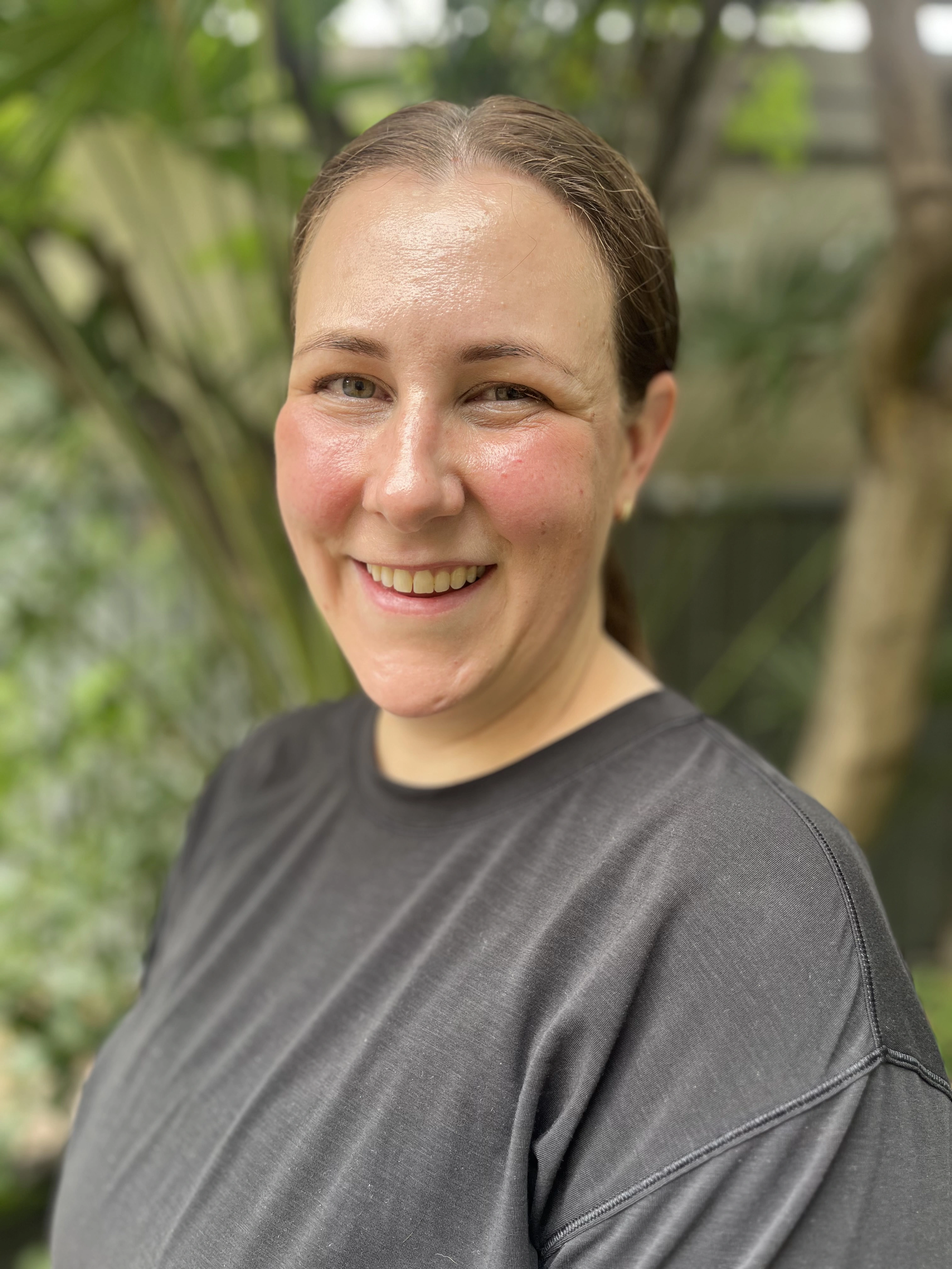
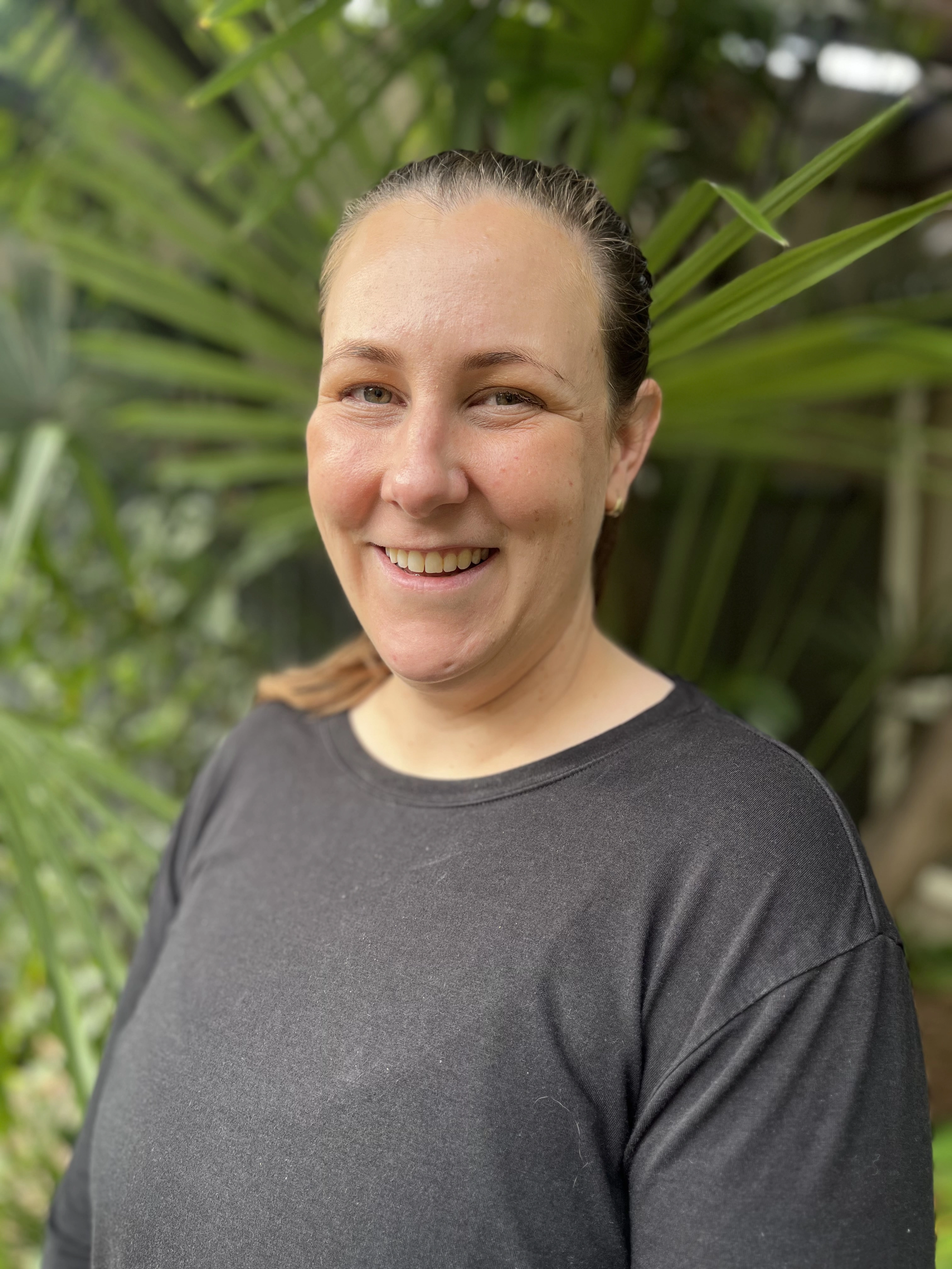
Update site: add Reagan/Tayla to support staff, add Elly profile, move Jessica to farewell, update announcement for Amanda & Elly, add social media links

diff --git a/about-us/index.html b/about-us/index.html
@@ -157,6 +157,14 @@
             <p>Jacqui</p>
         </div>
         <div class="receptionist">
+            <img src="../Assets/headshots/Reagan.webp" alt="Reagan - Support staff" loading="lazy">
+            <p>Reagan</p>
+        </div>
+        <div class="receptionist">
+            <img src="../Assets/headshots/Tayla.webp" alt="Tayla - Support staff" loading="lazy">
+            <p>Tayla</p>
+        </div>
+        <div class="receptionist">
             <img src="../Assets/headshots/Kaeleigh.webp" alt="Kaeleigh - Reception staff" loading="lazy">
             <p>Kaeleigh</p>
         </div>
@@ -170,6 +178,14 @@
                 <p>Tel: <a href="tel:0394341874">03 9434 1874</a></p>
                 <p>Fax: 03 9957 8148</p>
                 <p>E-mail: <a href="mailto:info@embodyhealthcare.com.au">info@embodyhealthcare.com.au</a></p>
+                <div class="socials">
+                    <a href="https://www.instagram.com/embodyhealthcareosteopathy/" target="_blank" rel="noopener" aria-label="Instagram">
+                        <svg xmlns="http://www.w3.org/2000/svg" width="24" height="24" viewBox="0 0 24 24" fill="currentColor"><path d="M12 2.163c3.204 0 3.584.012 4.85.07 3.252.148 4.771 1.691 4.919 4.919.058 1.265.069 1.645.069 4.849 0 3.205-.012 3.584-.069 4.849-.149 3.225-1.664 4.771-4.919 4.919-1.266.058-1.644.07-4.85.07-3.204 0-3.584-.012-4.849-.07-3.26-.149-4.771-1.699-4.919-4.92-.058-1.265-.07-1.644-.07-4.849 0-3.204.013-3.583.07-4.849.149-3.227 1.664-4.771 4.919-4.919 1.266-.057 1.645-.069 4.849-.069zM12 0C8.741 0 8.333.014 7.053.072 2.695.272.273 2.69.073 7.052.014 8.333 0 8.741 0 12c0 3.259.014 3.668.072 4.948.2 4.358 2.618 6.78 6.98 6.98C8.333 23.986 8.741 24 12 24c3.259 0 3.668-.014 4.948-.072 4.354-.2 6.782-2.618 6.979-6.98.059-1.28.073-1.689.073-4.948 0-3.259-.014-3.667-.072-4.947-.196-4.354-2.617-6.78-6.979-6.98C15.668.014 15.259 0 12 0zm0 5.838a6.162 6.162 0 100 12.324 6.162 6.162 0 000-12.324zM12 16a4 4 0 110-8 4 4 0 010 8zm6.406-11.845a1.44 1.44 0 100 2.881 1.44 1.44 0 000-2.881z"/></svg>
+                    </a>
+                    <a href="https://www.facebook.com/profile.php?id=61587610506511" target="_blank" rel="noopener" aria-label="Facebook">
+                        <svg xmlns="http://www.w3.org/2000/svg" width="24" height="24" viewBox="0 0 24 24" fill="currentColor"><path d="M24 12.073c0-6.627-5.373-12-12-12s-12 5.373-12 12c0 5.99 4.388 10.954 10.125 11.854v-8.385H7.078v-3.47h3.047V9.43c0-3.007 1.792-4.669 4.533-4.669 1.312 0 2.686.235 2.686.235v2.953H15.83c-1.491 0-1.956.925-1.956 1.874v2.25h3.328l-.532 3.47h-2.796v8.385C19.612 23.027 24 18.062 24 12.073z"/></svg>
+                    </a>
+                </div>
             </div>
             <div class="openhrs">
                 <h3>Opening Hours</h3>
@@ -233,18 +249,6 @@
             },
             {
                 "@type": "Physician",
-                "@id": "https://www.embodyhealthcare.com.au/about-us/#jessica",
-                "name": "Jessica Di Natale",
-                "image": "https://www.embodyhealthcare.com.au/Assets/headshots/Jess.webp",
-                "medicalSpecialty": "Osteopathy",
-                "worksFor": {
-                    "@type": ["LocalBusiness", "MedicalBusiness"],
-                    "name": "Embody Healthcare Osteopathy",
-                    "url": "https://www.embodyhealthcare.com.au"
-                }
-            },
-            {
-                "@type": "Physician",
                 "@id": "https://www.embodyhealthcare.com.au/about-us/#kathryn",
                 "name": "Kathryn Williams",
                 "image": "https://www.embodyhealthcare.com.au/Assets/headshots/Kath.webp",
@@ -272,6 +276,18 @@
                 "@id": "https://www.embodyhealthcare.com.au/about-us/#nathan",
                 "name": "Nathan Switkowski",
                 "image": "https://www.embodyhealthcare.com.au/Assets/headshots/Nathan.webp",
+                "medicalSpecialty": "Osteopathy",
+                "worksFor": {
+                    "@type": ["LocalBusiness", "MedicalBusiness"],
+                    "name": "Embody Healthcare Osteopathy",
+                    "url": "https://www.embodyhealthcare.com.au"
+                }
+            },
+            {
+                "@type": "Physician",
+                "@id": "https://www.embodyhealthcare.com.au/about-us/#elly",
+                "name": "Elly Slatterie-Smith",
+                "image": "https://www.embodyhealthcare.com.au/Assets/headshots/Elly.webp",
                 "medicalSpecialty": "Osteopathy",
                 "worksFor": {
                     "@type": ["LocalBusiness", "MedicalBusiness"],

diff --git a/index.html b/index.html
@@ -56,7 +56,7 @@
             <a class="CTA" href="/online-bookings/">Book Now</a>
         </nav>
         <div class="announcement">
-            <a href="/about-us/#nathan"><p>Now welcoming osteopath <u>Nathan Switkowski</u> to our team! Available Mondays, Thursdays & Saturdays (monthly). Book online or call 9434 1874.</p></a>
+            <p>Welcome to Osteopaths Amanda & Elly: now available for appointments!</p>
         </div>
 
         <div class="heroImg"></div>
@@ -137,6 +137,14 @@
                     <p>Tel: <a href="tel:0394341874">03 9434 1874</a></p>
                     <p>Fax: 03 9957 8148</p>
                     <p>E-mail: <a href="mailto:info@embodyhealthcare.com.au">info@embodyhealthcare.com.au</a></p>
+                    <div class="socials">
+                        <a href="https://www.instagram.com/embodyhealthcareosteopathy/" target="_blank" rel="noopener" aria-label="Instagram">
+                            <svg xmlns="http://www.w3.org/2000/svg" width="24" height="24" viewBox="0 0 24 24" fill="currentColor"><path d="M12 2.163c3.204 0 3.584.012 4.85.07 3.252.148 4.771 1.691 4.919 4.919.058 1.265.069 1.645.069 4.849 0 3.205-.012 3.584-.069 4.849-.149 3.225-1.664 4.771-4.919 4.919-1.266.058-1.644.07-4.85.07-3.204 0-3.584-.012-4.849-.07-3.26-.149-4.771-1.699-4.919-4.92-.058-1.265-.07-1.644-.07-4.849 0-3.204.013-3.583.07-4.849.149-3.227 1.664-4.771 4.919-4.919 1.266-.057 1.645-.069 4.849-.069zM12 0C8.741 0 8.333.014 7.053.072 2.695.272.273 2.69.073 7.052.014 8.333 0 8.741 0 12c0 3.259.014 3.668.072 4.948.2 4.358 2.618 6.78 6.98 6.98C8.333 23.986 8.741 24 12 24c3.259 0 3.668-.014 4.948-.072 4.354-.2 6.782-2.618 6.979-6.98.059-1.28.073-1.689.073-4.948 0-3.259-.014-3.667-.072-4.947-.196-4.354-2.617-6.78-6.979-6.98C15.668.014 15.259 0 12 0zm0 5.838a6.162 6.162 0 100 12.324 6.162 6.162 0 000-12.324zM12 16a4 4 0 110-8 4 4 0 010 8zm6.406-11.845a1.44 1.44 0 100 2.881 1.44 1.44 0 000-2.881z"/></svg>
+                        </a>
+                        <a href="https://www.facebook.com/profile.php?id=61587610506511" target="_blank" rel="noopener" aria-label="Facebook">
+                            <svg xmlns="http://www.w3.org/2000/svg" width="24" height="24" viewBox="0 0 24 24" fill="currentColor"><path d="M24 12.073c0-6.627-5.373-12-12-12s-12 5.373-12 12c0 5.99 4.388 10.954 10.125 11.854v-8.385H7.078v-3.47h3.047V9.43c0-3.007 1.792-4.669 4.533-4.669 1.312 0 2.686.235 2.686.235v2.953H15.83c-1.491 0-1.956.925-1.956 1.874v2.25h3.328l-.532 3.47h-2.796v8.385C19.612 23.027 24 18.062 24 12.073z"/></svg>
+                        </a>
+                    </div>
                 </div>
                 <div class="openhrs">
                     <h3>Opening Hours</h3>

diff --git a/contact-us/index.html b/contact-us/index.html
@@ -70,6 +70,14 @@
                 <p>Tel: <a href="tel:0394341874">03 9434 1874</a></p>
                 <p>Fax: 03 9957 8148</p>
                 <p>E-mail: <a href="mailto:info@embodyhealthcare.com.au">info@embodyhealthcare.com.au</a></p>
+                <div class="socials">
+                    <a href="https://www.instagram.com/embodyhealthcareosteopathy/" target="_blank" rel="noopener" aria-label="Instagram">
+                        <svg xmlns="http://www.w3.org/2000/svg" width="24" height="24" viewBox="0 0 24 24" fill="currentColor"><path d="M12 2.163c3.204 0 3.584.012 4.85.07 3.252.148 4.771 1.691 4.919 4.919.058 1.265.069 1.645.069 4.849 0 3.205-.012 3.584-.069 4.849-.149 3.225-1.664 4.771-4.919 4.919-1.266.058-1.644.07-4.85.07-3.204 0-3.584-.012-4.849-.07-3.26-.149-4.771-1.699-4.919-4.92-.058-1.265-.07-1.644-.07-4.849 0-3.204.013-3.583.07-4.849.149-3.227 1.664-4.771 4.919-4.919 1.266-.057 1.645-.069 4.849-.069zM12 0C8.741 0 8.333.014 7.053.072 2.695.272.273 2.69.073 7.052.014 8.333 0 8.741 0 12c0 3.259.014 3.668.072 4.948.2 4.358 2.618 6.78 6.98 6.98C8.333 23.986 8.741 24 12 24c3.259 0 3.668-.014 4.948-.072 4.354-.2 6.782-2.618 6.979-6.98.059-1.28.073-1.689.073-4.948 0-3.259-.014-3.667-.072-4.947-.196-4.354-2.617-6.78-6.979-6.98C15.668.014 15.259 0 12 0zm0 5.838a6.162 6.162 0 100 12.324 6.162 6.162 0 000-12.324zM12 16a4 4 0 110-8 4 4 0 010 8zm6.406-11.845a1.44 1.44 0 100 2.881 1.44 1.44 0 000-2.881z"/></svg>
+                    </a>
+                    <a href="https://www.facebook.com/profile.php?id=61587610506511" target="_blank" rel="noopener" aria-label="Facebook">
+                        <svg xmlns="http://www.w3.org/2000/svg" width="24" height="24" viewBox="0 0 24 24" fill="currentColor"><path d="M24 12.073c0-6.627-5.373-12-12-12s-12 5.373-12 12c0 5.99 4.388 10.954 10.125 11.854v-8.385H7.078v-3.47h3.047V9.43c0-3.007 1.792-4.669 4.533-4.669 1.312 0 2.686.235 2.686.235v2.953H15.83c-1.491 0-1.956.925-1.956 1.874v2.25h3.328l-.532 3.47h-2.796v8.385C19.612 23.027 24 18.062 24 12.073z"/></svg>
+                    </a>
+                </div>
             </div>
     
             <div class="openHrs">

diff --git a/online-bookings/index.html b/online-bookings/index.html
@@ -79,6 +79,14 @@
             <p>Tel: <a href="tel:0394341874">03 9434 1874</a></p>
             <p>Fax: 03 9957 8148</p>
             <p>E-mail: <a href="mailto:info@embodyhealthcare.com.au">info@embodyhealthcare.com.au</a></p>
+            <div class="socials">
+                <a href="https://www.instagram.com/embodyhealthcareosteopathy/" target="_blank" rel="noopener" aria-label="Instagram">
+                    <svg xmlns="http://www.w3.org/2000/svg" width="24" height="24" viewBox="0 0 24 24" fill="currentColor"><path d="M12 2.163c3.204 0 3.584.012 4.85.07 3.252.148 4.771 1.691 4.919 4.919.058 1.265.069 1.645.069 4.849 0 3.205-.012 3.584-.069 4.849-.149 3.225-1.664 4.771-4.919 4.919-1.266.058-1.644.07-4.85.07-3.204 0-3.584-.012-4.849-.07-3.26-.149-4.771-1.699-4.919-4.92-.058-1.265-.07-1.644-.07-4.849 0-3.204.013-3.583.07-4.849.149-3.227 1.664-4.771 4.919-4.919 1.266-.057 1.645-.069 4.849-.069zM12 0C8.741 0 8.333.014 7.053.072 2.695.272.273 2.69.073 7.052.014 8.333 0 8.741 0 12c0 3.259.014 3.668.072 4.948.2 4.358 2.618 6.78 6.98 6.98C8.333 23.986 8.741 24 12 24c3.259 0 3.668-.014 4.948-.072 4.354-.2 6.782-2.618 6.979-6.98.059-1.28.073-1.689.073-4.948 0-3.259-.014-3.667-.072-4.947-.196-4.354-2.617-6.78-6.979-6.98C15.668.014 15.259 0 12 0zm0 5.838a6.162 6.162 0 100 12.324 6.162 6.162 0 000-12.324zM12 16a4 4 0 110-8 4 4 0 010 8zm6.406-11.845a1.44 1.44 0 100 2.881 1.44 1.44 0 000-2.881z"/></svg>
+                </a>
+                <a href="https://www.facebook.com/profile.php?id=61587610506511" target="_blank" rel="noopener" aria-label="Facebook">
+                    <svg xmlns="http://www.w3.org/2000/svg" width="24" height="24" viewBox="0 0 24 24" fill="currentColor"><path d="M24 12.073c0-6.627-5.373-12-12-12s-12 5.373-12 12c0 5.99 4.388 10.954 10.125 11.854v-8.385H7.078v-3.47h3.047V9.43c0-3.007 1.792-4.669 4.533-4.669 1.312 0 2.686.235 2.686.235v2.953H15.83c-1.491 0-1.956.925-1.956 1.874v2.25h3.328l-.532 3.47h-2.796v8.385C19.612 23.027 24 18.062 24 12.073z"/></svg>
+                </a>
+            </div>
         </div>
         <div class="openhrs">
             <h3>Opening Hours</h3>

diff --git a/styles.css b/styles.css
@@ -273,6 +273,21 @@ footer h3 {
     margin-bottom: 10px;
 }
 
+.socials {
+    display: flex;
+    gap: 12px;
+    margin-top: 10px;
+}
+
+.socials a {
+    color: var(--background-text-color);
+    transition: opacity 0.2s;
+}
+
+.socials a:hover {
+    opacity: 0.7;
+}
+
 footer h3:not(footer .contact h3) {
     margin-top: 30px;
 }
